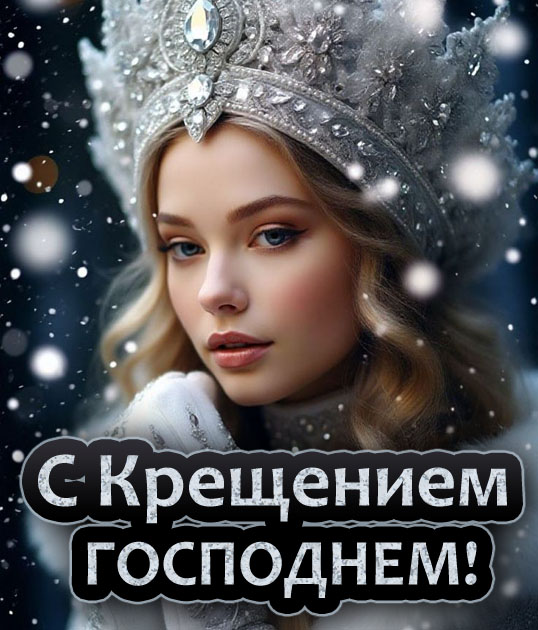
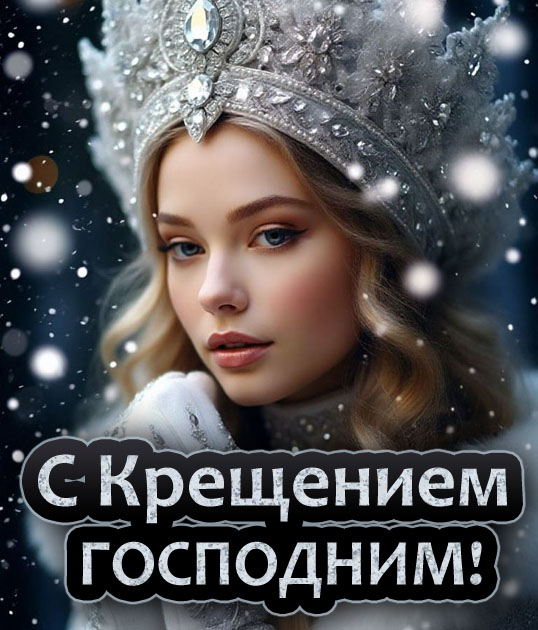
requlary

Changed region(s): [[0.119, 0.8143, 0.9517, 0.9952]]

diff --git a/src/Vmaya/classes/Image2VideoBot.php b/src/Vmaya/classes/Image2VideoBot.php
@@ -96,12 +96,10 @@ class Image2VideoBot extends YKassaBot {
             [['text' => '❕'.Lang('Agreement'), 'callback_data' => 'agreement']]
         ];
 
+        /*
         if ($this->getOriginUserId() == ADMIN_USERID) {
             $result[] = [['text' => 'Остановить', 'callback_data' => 'stopBot'], ['text' => 'Сменить ID', 'callback_data' => 'changeId']];
-
-            //$result[] = [['text' => 'Lonardo Image', 'callback_data' => 'create_image']];
-            //$result[] = [['text' => '🖼 '.Lang('Create an image'), 'callback_data' => 'create_image']];
-        }
+        }*/
 
         return $result;
     }
@@ -475,21 +473,6 @@ class Image2VideoBot extends YKassaBot {
         return false;
     }
 
-    protected function pushImage($image_id) {
-        if (!($images = $this->getSession('images'))) $images = [];
-        $images[] = $image_id;
-        $this->setSession('images', $images);
-    }
-
-    protected function getImagesUrl() {
-        $images = array_reverse($this->getSession('images'));
-        $images_url = [];
-        if (!empty($images))
-            foreach ($images as $image_id)
-                $images_url[] = $this->GetFileUrl($image_id);
-        return $images_url;
-    }
-
     protected function callMethod($method, $data) {
         if (method_exists($this, $method)) {
             if ($data) {
@@ -846,7 +829,7 @@ class Image2VideoBot extends YKassaBot {
         if (is_numeric($second)) {
             $offerPrompts = Lang($genType.'Prompts');
 
-            if (is_array($offerPrompts))
+            if (is_array($offerPrompts) && ($second < count($offerPrompts)))
                 $second = $offerPrompts[$second];
         } else if ($second) 
             $second = $this->popSession($second);
@@ -854,9 +837,9 @@ class Image2VideoBot extends YKassaBot {
         return [$data[1], $second];
     }
 
-    protected function imageToVideo($stage) {
-        if (is_array($stage))
-            [$stage, $prompt] = $this->parseCommandData('imageToVideo', $stage);
+    protected function imageToVideo($data) {
+        if (is_array($data))
+            [$stage, $prompt] = $this->parseCommandData('imageToVideo', $data);
 
         switch ($stage) {
             case 0: 
@@ -873,7 +856,15 @@ class Image2VideoBot extends YKassaBot {
                 break;
             case 1: 
                     $this->askSendPrompt('imageToVideo', 2);
-                    $this->setSession("expect", 'imageToVideo(2)');
+                    if (isset($data[2]) && is_numeric($data[2])) {
+                        $images = $this->getSession('images');
+                        if (isset($images[$data[2]])) {
+                            $file_id = $images[$data[2]];
+                            $this->setSession("expect", "imageToVideo([2,'', {$file_id}])");
+                            break;
+                        }
+                    }
+                    $this->setSession("expect", "imageToVideo(2)");
                 break;
             case 2: 
                     $prompt = isset($prompt) ? $prompt : $this->popSession('prompt');

diff --git a/src/Vmaya/services/cycle/LeoCycle.php b/src/Vmaya/services/cycle/LeoCycle.php
@@ -85,8 +85,6 @@ class LeoCycle extends BaseCycle {
         $response   = $data['response'];
         $hash       = $task['hash'];
         $dl_state   = $record['state'];
-        $_this      = $data['this'];
-        $parent     = $_this->parent;
 
         trace("Attempt send photo {$data['file_path']}");
 
@@ -96,27 +94,38 @@ class LeoCycle extends BaseCycle {
 
             if ($task['preset'])
                 $this->parent->applyPreset($data['file_path'], $task['preset']);
-            
-            $result = $parent->sendPhoto($task['chat_id'], $data['file_path'], $data['file_name'], Lang('Your photo is ready'));
+
+            $message_index = $this->parent->messageIndex();
+
+            $result = $this->parent->sendPhoto($task['chat_id'], $data['file_path'], $data['file_name'], Lang('Your photo is ready'), [
+                [['text'=>Lang('Animate an image'), 'callback_data'=>"imageToVideo.1.{$message_index}"]]
+            ]);
 
             if ($result) {
 
-                $parent->PayUpscale($task['user_id'], [
+                $this->parent->PayUpscale($task['user_id'], [
                     'response_id'=>$response['id'],
                     'hash'=>$hash
                 ]);
 
-                $parent->finishTask($task, 'finished');
+                $this->parent->finishTask($task, 'finished');
+
+                if ($photos = $result->getPhoto()) {
+                    $images = $this->parent->getSession('images');
+                    $images[$message_index] = $photos->last()->getFileId();
+                    $this->parent->setSession('images', $images);
+                }
+
             } else {
                 /*
-                $parent->Message($task['chat_id'], Lang('Something wrong'));
-                $parent->finishTask($task, 'failure');
+                $this->parent->Message($task['chat_id'], Lang('Something wrong'));
+                $this->parent->finishTask($task, 'failure');
                 */
-                $_this->setResponseProcessed($response, 0);
+                $this->setResponseProcessed($response, 0);
             }
         } else {
-            $parent->Message($task['chat_id'], Lang('Fail download image'));
-            $parent->finishTask($task, 'failure');
+            $this->parent->Message($task['chat_id'], Lang('Fail download image'));
+            $this->parent->finishTask($task, 'failure');
         }
     }
 

diff --git a/src/Vmaya/classes/SessionManager.php b/src/Vmaya/classes/SessionManager.php
@@ -34,7 +34,7 @@ class SessionManager {
         return false;
     }
 
-    protected function setSession($name, $value) {
+    public function setSession($name, $value) {
         $this->session[$name] = $value;
         $this->sessionChanged = true;
     }
@@ -47,7 +47,7 @@ class SessionManager {
             ], 'chat_id');
     }
 
-    protected function readSession($sessionId) {
+    public function readSession($sessionId) {
         $result = [];
 
         if ($sessionId) {
@@ -61,15 +61,15 @@ class SessionManager {
     	$this->session = $result;
     }
 
-    protected function hasSession($name) {
+    public function hasSession($name) {
         return isset($this->session[$name]);
     }
 
-    protected function getSession($name, $default = false) {
+    public function getSession($name, $default = false) {
         return $this->hasSession($name) ? $this->session[$name] : $default;
     }
 
-    protected function unsetSessions($names) {
+    public function unsetSessions($names) {
         foreach ($names as $name)
             if (isset($this->session[$name])) {
                 unset($this->session[$name]);
@@ -77,7 +77,7 @@ class SessionManager {
             }
     }
 
-    protected function popSession($name) {
+    public function popSession($name) {
 
         $result = null;       
         if (isset($this->session[$name])) {
@@ -87,5 +87,20 @@ class SessionManager {
         }
 
         return $result;
+    }
+
+    public function pushImage($image_id) {
+        if (!($images = $this->getSession('images'))) $images = [];
+        $images[] = $image_id;
+        $this->setSession('images', $images);
+    }
+
+    public function getImagesUrl() {
+        $images = array_reverse(array_values($this->getSession('images')));
+        $images_url = [];
+        if (!empty($images))
+            foreach ($images as $image_id)
+                $images_url[] = $this->GetFileUrl($image_id);
+        return $images_url;
     }
 }

diff --git a/src/Vmaya/language/ru.php b/src/Vmaya/language/ru.php
@@ -33,6 +33,7 @@ $lang = [
 	'Go to dialogue'=>'Перейти к диалогу',
 	'This feature is not supported yet'=>'Эта функция пока не поддерживается',
 	'Animate'=>'Анимировать',
+	'Animate an image'=>'Анимировать изображение',
 	'Animation not found'=>'Анимация не найдена',
 	'Something wrong'=>"Что то пошло не так!\nПросим прощения за доставленные неудобства.\n\nЕсли это произошло при генерации, попробуйте выбрать другую модель из списка моделей, или обратитесь в техническую поддержку",
 	'DownloadFailure'=>'Что то пошло не так и мы не можем скачать файл. Просим прощения за неудобства. Обратитесь в тех. поддержку. Номер вашего задания %s.',

diff --git a/src/Vmaya/classes/TelegramClient.php b/src/Vmaya/classes/TelegramClient.php
@@ -96,9 +96,8 @@ class TelegramClient extends SettingsManager {
 
                     sleep(round(pow($attempt_count, 1.5) * 3));
                     $photoMessage = $this->afterSend($this->api->sendPhoto($params), true);
-                    if ($photoMessage->getMessageId()) {
-                        return true;
-                    }
+                    if ($photoMessage->getMessageId())
+                        return $photoMessage;
 
                 } catch (Exception $e) {
                     $error_message = $e->getMessage();
@@ -107,7 +106,7 @@ class TelegramClient extends SettingsManager {
             }
         } else {
             trace_error("File ({$file_path}) is not exists");
-            return true;
+            return false;
         }
 
         trace_error("Failed to send image to chatId: {$chat_id}\n\nError: {$error_message}");

diff --git a/src/Vmaya/classes/BaseBot.php b/src/Vmaya/classes/BaseBot.php
@@ -91,12 +91,12 @@ abstract class BaseBot extends SettingsManager {
         return $this->currentUpdate;
     }
 
-    protected function unsetSessions($names) {
+    public function unsetSessions($names) {
         if ($this->currentUpdate) 
             parent::unsetSessions($names);
     }
 
-    protected function popSession($name) {
+    public function popSession($name) {
 
         $result = null;
         if ($this->currentUpdate)
